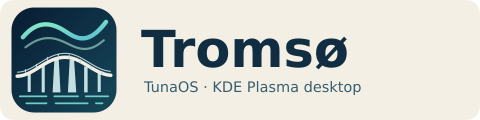
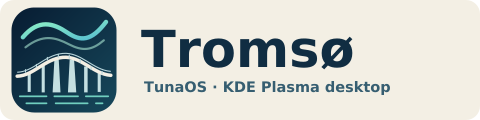
Outline Tromsø city lettering with portable licensed glyphs

Changed region(s): [[0.3438, 0.3, 0.75, 0.575], [0.2812, 0.675, 0.8125, 0.8]]

diff --git a/README.md b/README.md
@@ -23,6 +23,9 @@ in a VM.
 
 Icon: [Tromsø Bridge city mark](branding/tromso/tromso-logo.svg).
 
+`DejaVu Sans Bold` supplies the paths for the SVG labels.
+The SVG metadata includes the font license.
+
 To make the PNG files from their SVG sources:
 
 ```bash
